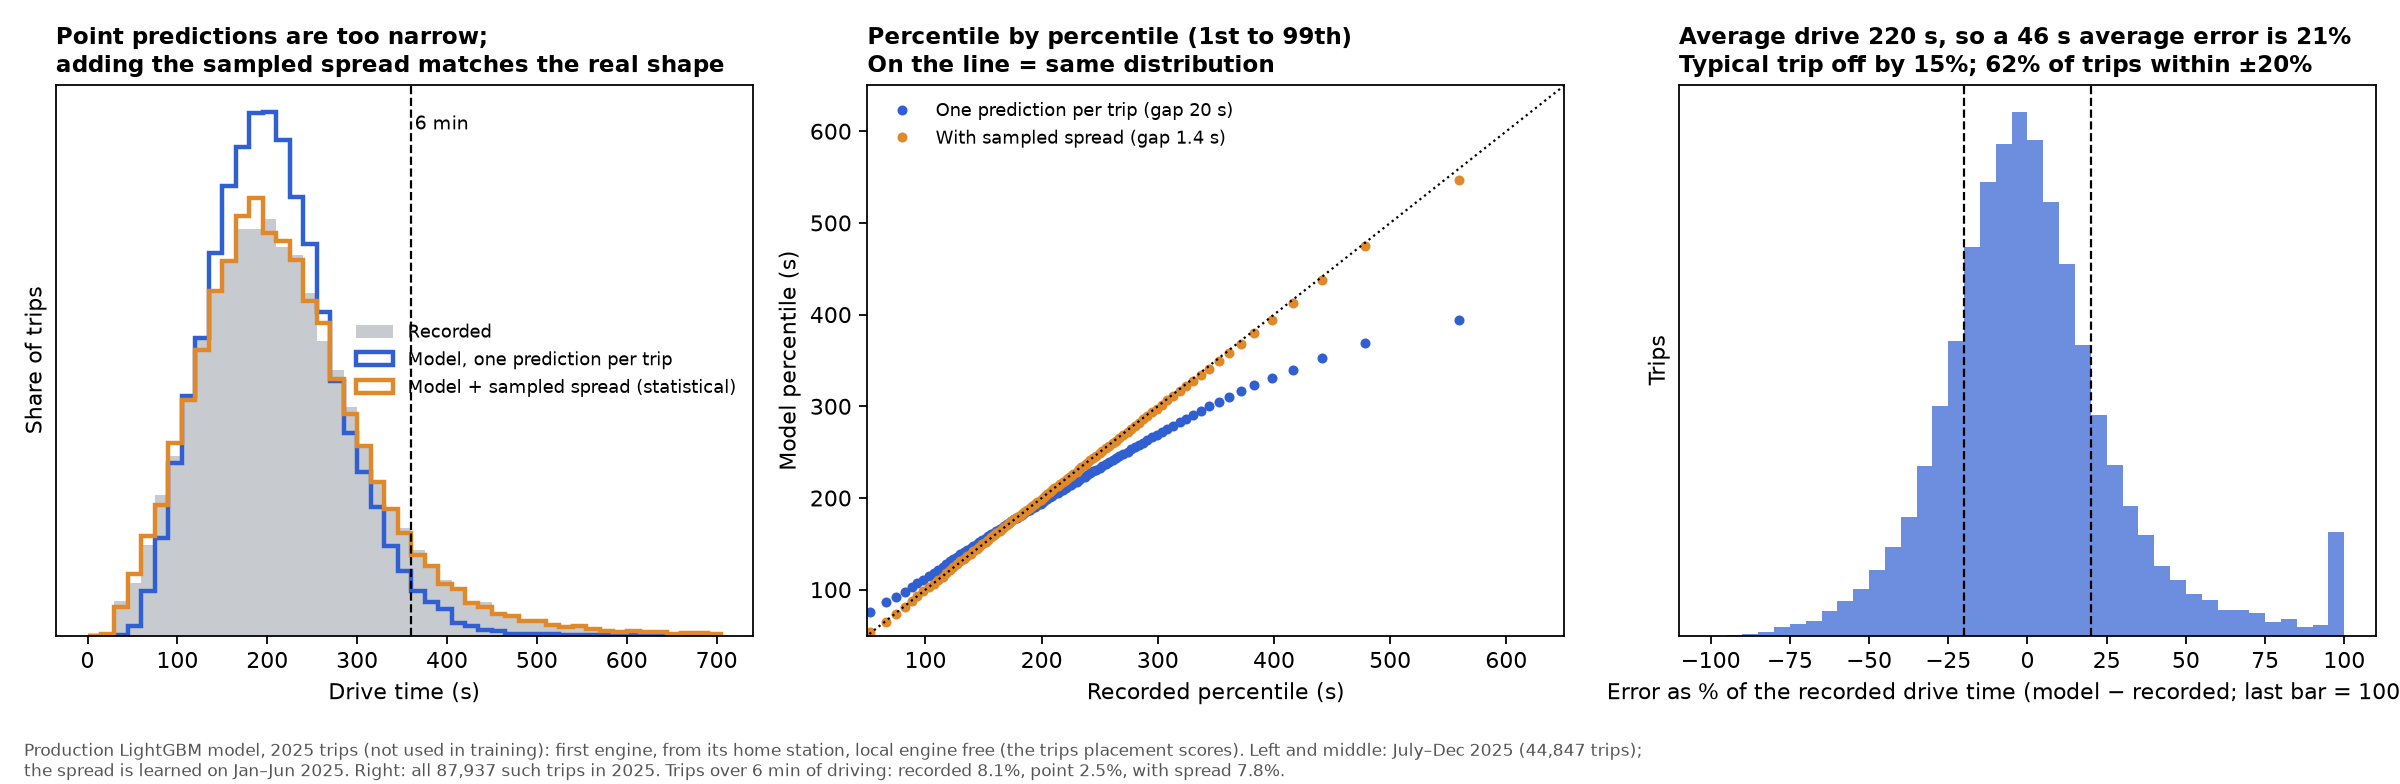
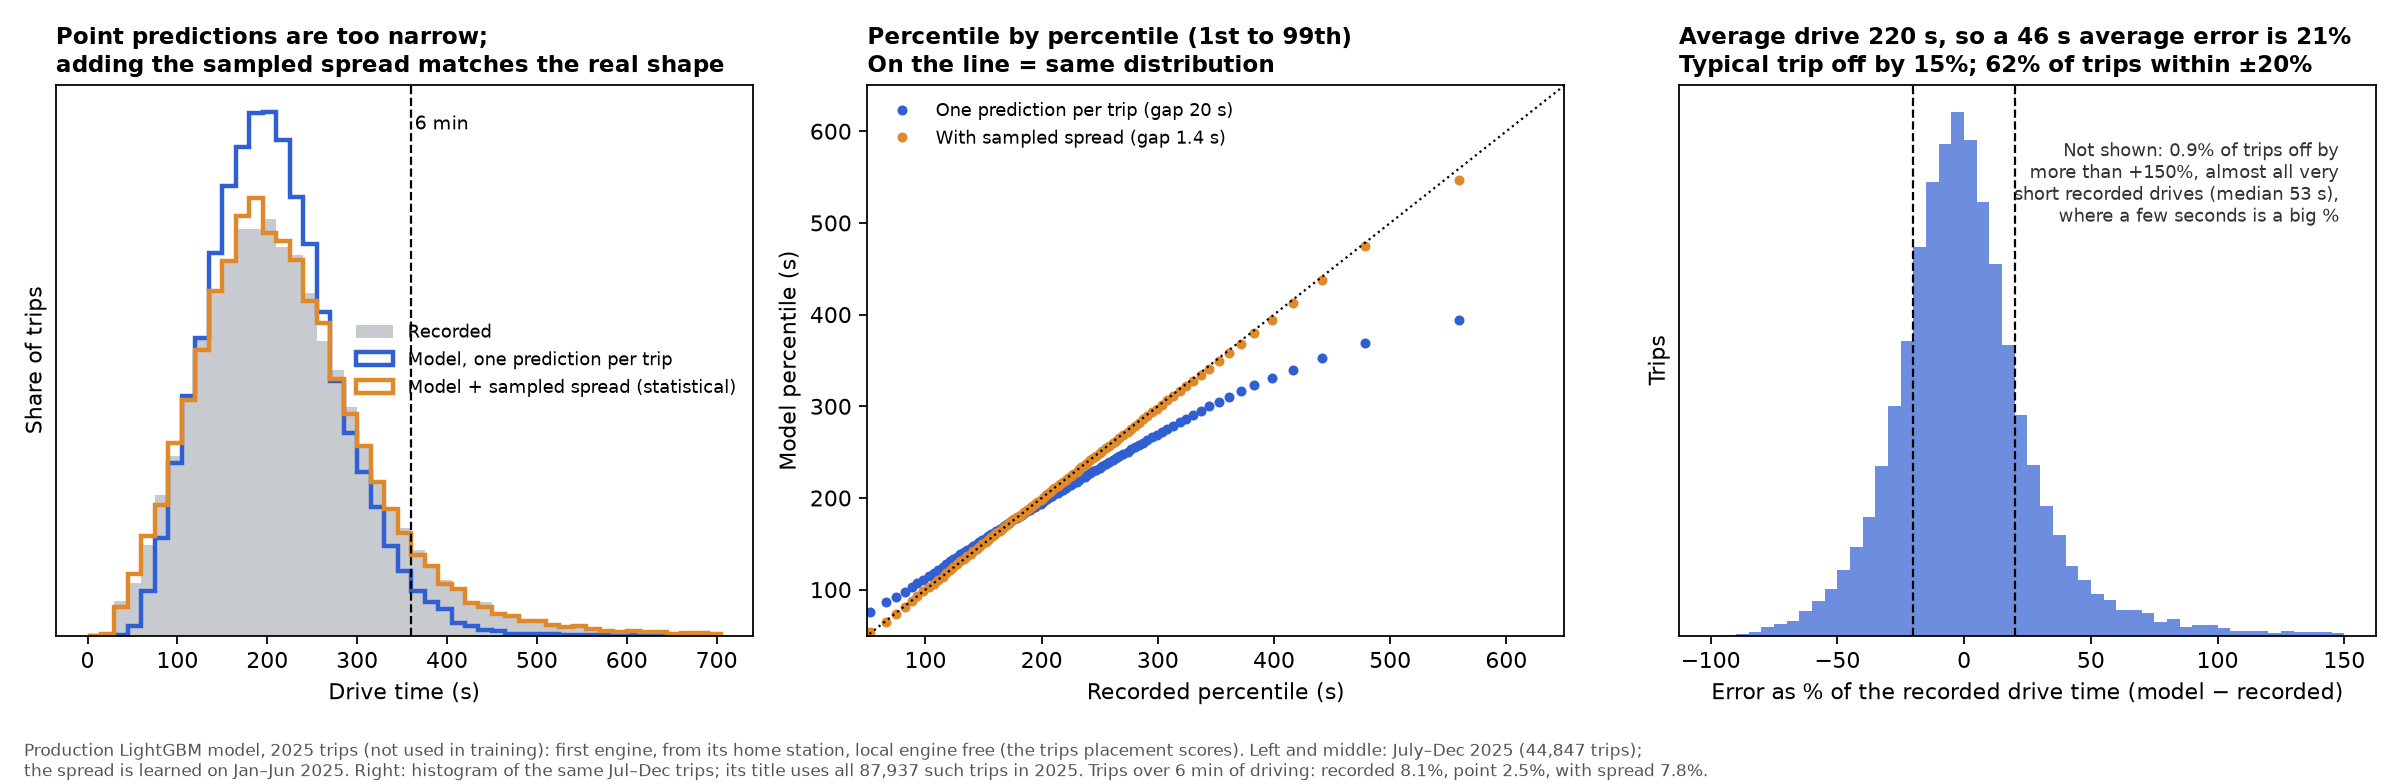
fixed figure

Changed region(s): [[0.6562, 0.1224, 1.0, 0.9184], [0.1562, 0.9796, 0.7188, 1.0]]

diff --git a/docs/results.md b/docs/results.md
@@ -78,7 +78,8 @@ both sides and should largely cancel (argued, not tested directly; the 2014 clos
   drives are over 6 minutes, 2.5 % of predictions). This is what a point model does; it does not bias the average.
 - "Prediction + sampled spread" is the simplest form of the eMentor's statistical model: each trip's prediction is
   multiplied by a random recorded/predicted ratio drawn from January to June trips with a similar predicted time (20 bins).
-  Tested on July to December, it reproduces the real distribution almost exactly, tail included.
+  Tested on July to December, it reproduces the real distribution almost exactly, tail included. (1.1d is a fuller
+  version built from road-class pace PDFs; it has a larger point error than LightGBM.)
 - What this shows and does not: the simulated distribution matches the real one as a whole; it does not make any single
   trip's prediction more accurate. The over-6-minute counts in 5.9 use recorded times plus a modelled change, so they are not
   affected by the point model's narrow tail.
